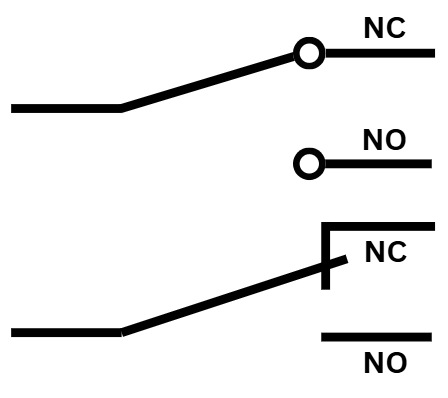
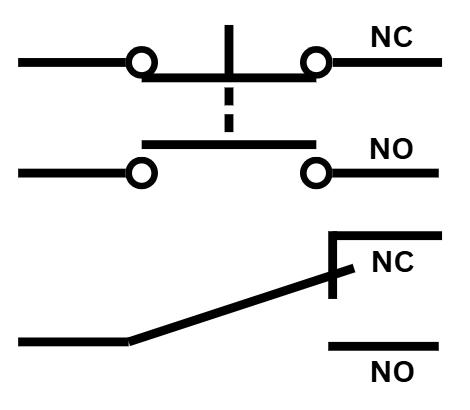
Added Relay Coil

Changed region(s): [[0.0312, 0.0302, 0.9688, 0.4824], [0.0, 0.5427, 0.9688, 0.8442], [0.6875, 0.8141, 0.9688, 0.9347]]

diff --git a/relay_functions/Relay Coil.md b/relay_functions/Relay Coil.md
@@ -1,0 +1,73 @@
+---
+title: "Relay Coil"
+permalink: /Relay/Relay-Coil/
+---
+
+<a href="https://engineeringshare.github.io/engineering-hub/2026/02/19/Relay-Symbols.html">🔙 Back to Relay Symbols and Functions</a>
+
+<div style="text-align:center;">
+  <img src="https://EngineeringShare.github.io/engineering-hub/images/Relay-Icons/Relay_Coil.png"
+       alt="Normally Open Contact Symbol" style="max-width:200px;height:auto;">
+</div>
+
+<h2>Relay Coil</h2>
+<p>
+    A relay coil is an essential component of a relay, which is an electrically operated switch used in various applications to control circuits. The relay coil is a wire wound around a core, and when an electric current flows through it, it generates a magnetic field. This magnetic field is responsible for actuating the relay's contacts, allowing them to open or close depending on the design of the relay. The relay coil is typically energized by a low voltage signal, which can be used to control higher voltage circuits without direct electrical connection. Relays are commonly used in automation systems, control panels, and various electronic devices to enable remote switching and control of circuits.
+</p>
+
+<h3>How it Works</h3>
+<p>
+    The relay coil works by creating a magnetic field when an electric current passes through it. This magnetic field then interacts with the relay's armature, which is a movable component that can open or close the contacts of the relay. When the coil is energized, the magnetic field pulls the armature towards it, causing the contacts to change their state (either from open to closed or vice versa). When the coil is de-energized, the magnetic field collapses, and a spring mechanism typically returns the armature to its original position, restoring the contacts to their default state. This allows relays to control circuits without direct electrical connection, providing isolation and enabling control of high-power devices with low-power signals.
+</p>
+
+<h3> Using a Relay Coil</h3>
+
+<table style="width: 100%; border-collapse: collapse;">
+    <tr>
+        <th style="border: 1px solid #ddd; padding: 8px; text-align: left; background-color: #f2f2f2;">Fluid Sim</th>
+        <td style="border: 1px solid #ddd; padding: 8px;">In fluid sim, we can use the relay coil to demonstrate how it works in a circuit. For example, we can create a simple circuit where a button press energizes the relay coil, which in turn closes a normally open (NO) contact to allow fluid to flow through a pipe. This simulates how a relay can control the flow of electricity in a real circuit. When the button is pressed, the relay coil is energized, creating a magnetic field that pulls the armature and closes the NO contact. When the button is released, the coil is de-energized, and the NO contact opens.</td>
+    </tr>
+    <tr>
+        <th style="border: 1px solid #ddd; padding: 8px; text-align: left; background-color: #f2f2f2;">Lab Bench</th>
+        <td style="border: 1px solid #ddd; padding: 8px;">On the lab benches, we have sets of festo relay boxes. These boxes consist of pairs of NO and NC contacts that are connected to a relay coil. We can plug power into the top of the coil and ground into the bottom of the coil. This completes the circuit for the relay coil and actuates NO and NC contacts.</td>
+    </tr>
+</table>
+
+<h3>Example Video</h3>
+
+<div class="gif-row">
+  <figure>
+    <img src="https://engineeringshare.github.io/engineering-resources/gifs/Relays/NO Fluid Sim.gif"
+         alt="NO Contact Example">
+    <figcaption>NO contact in a fluid simulation. The NO contact (left) is connected to relay R1. R1 is triggered by a button press in the simulation, which energizes the relay coil and closes the NO contact, completing the circuit.</figcaption>
+  </figure>
+</div>
+
+<style>
+  .gif-row {
+    display: flex;
+    gap: 1rem;
+    justify-content: center;
+    align-items: flex-start;
+    flex-wrap: wrap;
+  }
+
+  .gif-row figure {
+    width: 48%;
+    margin: 0;
+    text-align: center;
+  }
+
+  .gif-row img {
+    width: 100%;
+    height: auto;
+  }
+
+  .gif-row figcaption {
+    margin-top: 0.5rem;
+    font-size: 0.9rem;
+    color: #555;
+  }
+</style>
+
+<a href="https://engineeringshare.github.io/engineering-hub/2026/02/19/Relay-Symbols.html">🔙 Back to Relay Symbols and Functions</a>

diff --git a/relay_functions/NO Contact.md b/relay_functions/NO Contact.md
@@ -8,6 +8,10 @@ permalink: /Relay/NO-Contact/
 <div style="text-align:center;">
   <img src="https://EngineeringShare.github.io/engineering-hub/images/Relay-Icons/NO_Contact.png"
        alt="Normally Open Contact Symbol" style="max-width:200px;height:auto;">
+  <img src="https://EngineeringShare.github.io/engineering-hub/images/Relay-Icons/NO_Relay_Off.png"
+       alt="Relay internal components diagram" style="max-width:200px;height:auto;">
+  <img src="https://EngineeringShare.github.io/engineering-hub/images/Relay-Icons/NO_Relay_On.png"
+       alt="Relay internal components diagram" style="max-width:200px;height:auto;">
 </div>
 
 <h2>Normally Open Contact (NO)</h2>

diff --git a/_posts/2026-02-19-Relay-Symbols.md b/_posts/2026-02-19-Relay-Symbols.md
@@ -113,6 +113,15 @@ units:
     </div>
   </a>
 
+  <a class="card-link" href="https://engineeringshare.co.uk/Relay/Relay-Coil/">
+    <div class="card">
+      <div class="card-image">
+        <img src="https://engineeringshare.co.uk/images/Relay-Icons/Relay_Coil.png" alt="Relay Coil Symbol">
+      </div>
+      <h3>Relay Coil</h3>
+    </div>
+  </a>
+
 </div>
 
 ---
